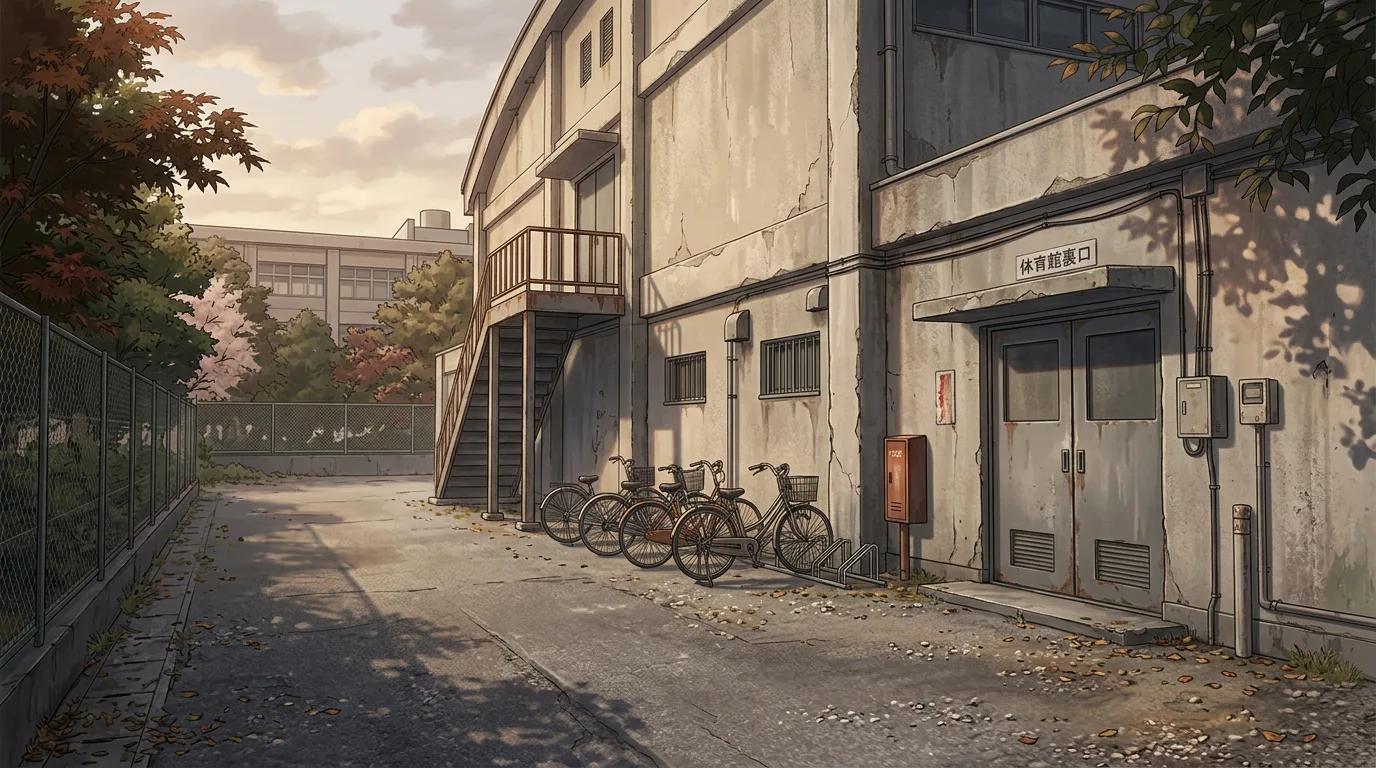
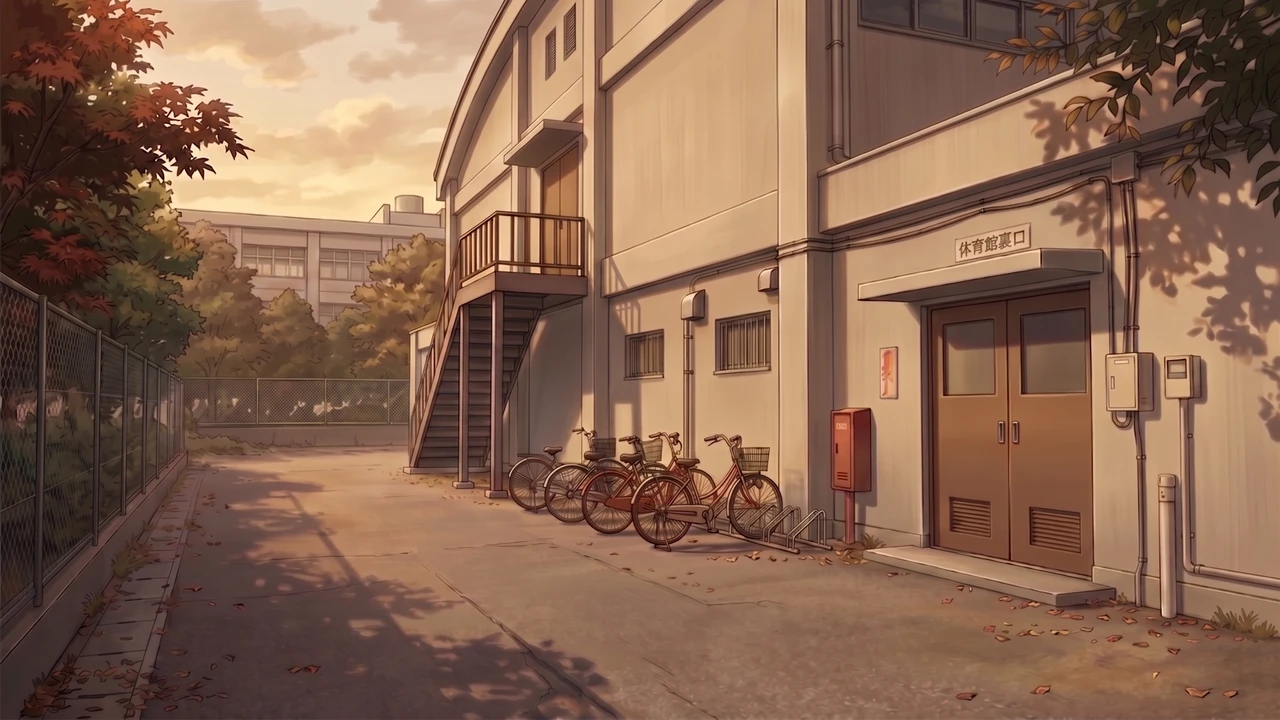
assets: bg_re_re の背景画像を一括変換・反映
- classroom/classroom_evening/classroom_night/classroom_rainy を更新
  （黒板の月表記消去・時計調整済み）
- commute_road_* 全種を更新（信号色調整済み）
- gymnasium_back/gymnasium_back_school を更新
- library/library_evening・music_room/music_room_evening を更新
- 新規追加: commute_road_june_cloudy/evening_cloudy/rainy・summer_evening2
- tools/convert_bg.py に Pillow 変換スクリプトを追加
- .gitignore に CLAUDE.md を追加

diff --git a/tools/convert_bg.py b/tools/convert_bg.py
@@ -1,0 +1,26 @@
+from PIL import Image
+import os
+
+SRC_DIR = "assets-src/bg_re_re/"
+DST_DIR = "assets/images/bg/"
+SIZE = (1280, 720)
+QUALITY = 90
+
+EXCLUDE = {"cafeteria_綺麗な時計とメニュー.png", "cafeteria_綺麗な背景.png"}
+
+for fname in sorted(os.listdir(SRC_DIR)):
+    if not fname.lower().endswith(".png"):
+        continue
+    if fname in EXCLUDE:
+        print(f"  skip: {fname}")
+        continue
+    src = os.path.join(SRC_DIR, fname)
+    dst = os.path.join(DST_DIR, os.path.splitext(fname)[0] + ".webp")
+    with Image.open(src) as img:
+        original_size = img.size
+        img = img.convert("RGB")
+        img = img.resize(SIZE, Image.LANCZOS)
+        img.save(dst, "WEBP", quality=QUALITY)
+    print(f"  {fname} ({original_size[0]}x{original_size[1]}) -> {os.path.basename(dst)}")
+
+print("done")

diff --git a/assets-src/デバッグ報告３.md b/assets-src/デバッグ報告３.md
@@ -21,6 +21,11 @@
 - [x] **交差点の画像**
   - → 信号がついてないものがある、要修正。
 
+- [x] **bg_re_re 一括反映**（追加対応）
+  - → `assets-src/bg_re_re/` の再生成画像（classroom/classroom_evening/classroom_night/classroom_rainy、commute_road_* 全種、gymnasium_back/gymnasium_back_school、library/library_evening、music_room/music_room_evening）を `assets/images/bg/` に1280×720 WebP変換して反映。
+  - cafeteria_綺麗な時計とメニュー.png・cafeteria_綺麗な背景.png は手動合成用素材のため除外。
+  - 新規追加: `commute_road_june_cloudy.webp`、`commute_road_june_evening_cloudy.webp`、`commute_road_june_rainy.webp`、`commute_road_summer_evening2.webp`（config.jsへの登録は別途）。
+
 
 
 ---------
@@ -112,6 +117,7 @@
     - → キャラ名の横の高さに並べる感じ、→ 地の文表示の時も空白でキャラ名が出る部分を表示させておいた方が統一感でるか。
       - → スマホ版だとコマンド文字が小さく感じるのでその対策にもなるかと。
         - → 常時コマンドが出てるのが邪魔になるようならテキストウィンドウ周りにカーソルがある時にだけ出すのもいいがスマホ版はそれが出来ないから常時表示になるか。
+
 
 ---------
 
@@ -485,10 +491,14 @@
     - → しかし 元のイベントシーンではまひるも一緒に入ってる…ような描写だった気もする。
     - 写真でなく目の前のまひるに対しての発言か？
 
-- [ ] **まひるルートエンドロール**
+- [x] **まひるルートエンドロール**（ことはルートも同様）
   - 歌ありのエンディングテーマが前シーンから開始されてる
-    - → 当然エンドロールの歌詞表示はあってないし、前のシーンでしばらく放置してたりすればエンドロール前に曲終わったりする。
-      - → 曲自体はループするみたいだが。それはそれでタイトルに戻る時にぶつ切りになるわけで・・・。
+    - → ✅ 対応済み。`@bgm_sync N`・`@skip_lock` コマンドを実装。
+      - `@bgm 理由のない明日へ.mp3` → `@skip_lock` → `@bgm_sync 14` → `@credits` の順で、BGM開始から14秒（ことは:13秒）後にエンドロールが始まる。
+      - `_bgmSync` は `performance.now()` ベースの壁時計タイマーに変更（`bgmAudio.currentTime` 依存だと null 時に即発火するバグがあったため）。
+      - `@skip_lock` 中はスキップ・ページ送り・文字速度変更をロック、AUTO強制ON。
+      - `_endCredits` で `_skipLocked` をリセット。エピローグへの進行が止まるバグも修正。
+      - エピローグ後のBGMは `_stopBGM()` で停止（ループしてタイトル戻りでぶつ切りになる問題も解消）。
 
 
 
